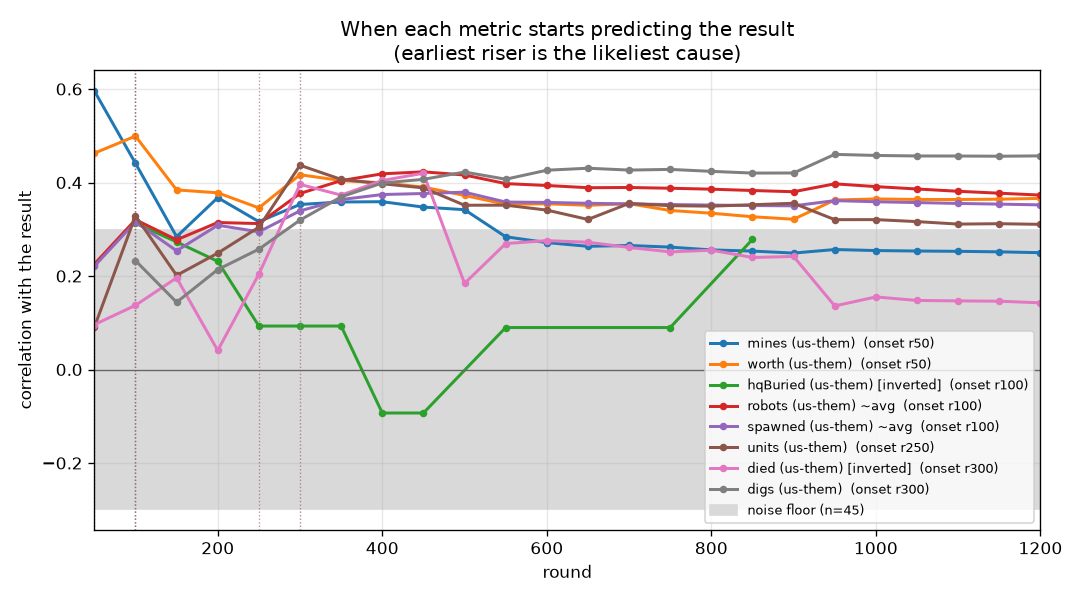
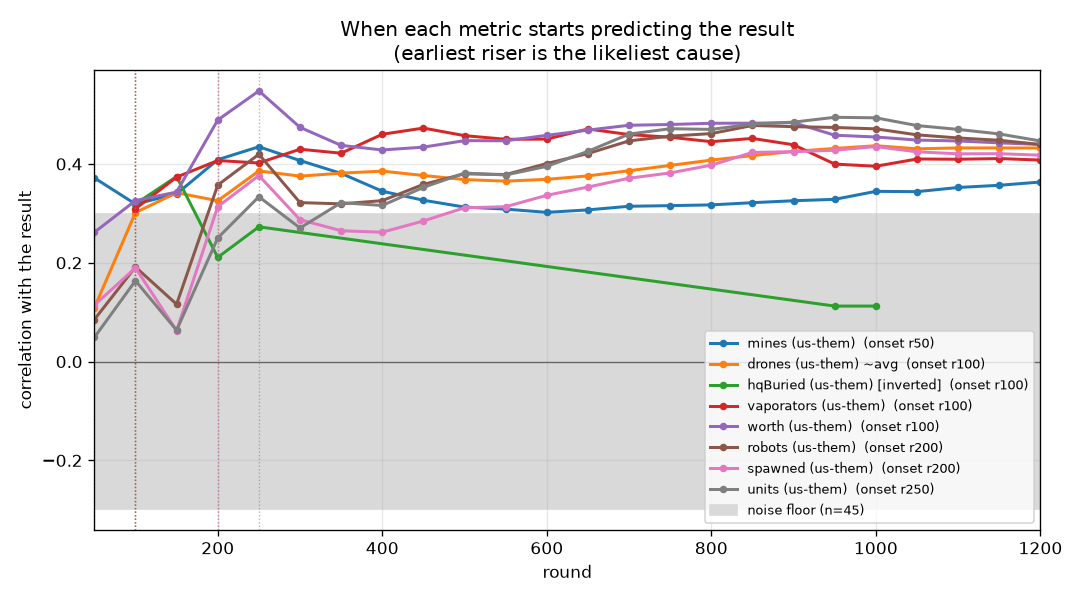
r1s16 at 240: 1734 +- 49 (worse; ledger); src/r1 reverted to g_iter13; rzhan11's fall explained
Claude-Session: https://claude.ai/code/session_015tNyF5ucwWW1mudpEQTT25

diff --git a/src/r1/Drone.java b/src/r1/Drone.java
@@ -54,7 +54,7 @@ public strictfp class Drone extends Robot {
     private MapLocation slot; private boolean posted = false;
     private boolean shield() throws GameActionException {
         MapLocation h = MapState.home;
-        if ((Nav.cheb(loc, h) == 2 && rc.senseFlooding(loc)) || Nav.cheb(loc, h) == 1) {   // stage 7: flooded tiles only; R1 stage 16: or an empty ring tile (nothing can be dropped onto it)
+        if (Nav.cheb(loc, h) == 2 && rc.senseFlooding(loc)) {   // stage 7: flooded tiles only (a dry one is a helper's post or its climb out of the flood)
             if (!posted) { posted = true; slot = loc; Debug.log("@shield at=" + loc); }
             if (!rc.isCurrentlyHoldingUnit() && rc.isReady()) for (int i = nEnemy; --i >= 0;) { RobotInfo e = enemies[i]; if (e.type.canBePickedUp() && rc.canPickUpUnit(e.ID)) { rc.pickUpUnit(e.ID); pickups++; Debug.log("@shieldpick t=" + e.type.ordinal()); return true; } }
             return true;
@@ -62,11 +62,6 @@ public strictfp class Drone extends Robot {
         if (rc.isCurrentlyHoldingUnit()) return false;   // drown the cargo first
         if (slot == null || (rc.canSenseLocation(slot) && rc.isLocationOccupied(slot)) || round % 10 == id % 10) {
             slot = null; int bd = 1 << 30;
-            // R1 stage 16 (g_iter13 vs mvpatel2000: 9 losses at r1893-1983 -- the ring's seats lifted by ~r1750, then four of its
-            // landscapers dropped onto the empty ring bury the HQ): an empty ring tile first -- a drone on it blocks the drop
-            for (int i = 8; --i >= 0;) { MapLocation t = h.add(DIRS[i]); if (!rc.onTheMap(t) || !rc.canSenseLocation(t) || rc.isLocationOccupied(t)) continue;
-                int d = loc.distanceSquaredTo(t) - 1000; if (d < bd) { bd = d; slot = t; } }
-            if (slot == null)
             for (int dx = -2; dx <= 2; dx++) for (int dy = -2; dy <= 2; dy++) { if (Math.max(Math.abs(dx), Math.abs(dy)) != 2) continue;
                 MapLocation t = new MapLocation(h.x + dx, h.y + dy); if (!rc.onTheMap(t) || !rc.canSenseLocation(t) || !rc.senseFlooding(t)) continue;
                 if (rc.isLocationOccupied(t)) continue;

diff --git a/progress/ONSET-merged.md b/progress/ONSET-merged.md
@@ -1,6 +1,6 @@
-# Which metric starts predicting the result first -- every recorded block of r1s15 merged
+# Which metric starts predicting the result first -- every recorded block of r1s16 merged
 
-228 games, 131 wins. Noise floor about 0.13; a correlation inside that band is not evidence.
+230 games, 78 wins. Noise floor about 0.13; a correlation inside that band is not evidence.
 
 Every metric is oriented so **higher is better for us**, so a positive correlation always means
 "this being better goes with winning". `~avg` is the running mean over all rounds so far rather than
@@ -12,46 +12,46 @@ See `progress/METRICS.md` for how each quantity is computed.
 
 | onset | anti | metric | peak corr | r100 | r200 | r300 | r400 | r600 | r900 |
 |---|---|---|---|---|---|---|---|---|---|
-| r200 | - | worth (us-them) | +0.56 | +0.23 | +0.36 | +0.48 | +0.53 | +0.55 | +0.50 |
-| r200 | - | worth (us-them) ~avg | +0.56 | +0.23 | +0.31 | +0.41 | +0.48 | +0.56 | +0.54 |
-| r250 | - | mines (us-them) | +0.47 | +0.23 | +0.29 | +0.40 | +0.47 | +0.47 | +0.44 |
-| r250 | - | robots (us-them) | +0.55 | +0.15 | +0.26 | +0.34 | +0.40 | +0.53 | +0.55 |
-| r300 | - | mines (us-them) ~avg | +0.48 | +0.24 | +0.25 | +0.34 | +0.44 | +0.48 | +0.47 |
-| r300 | - | spawned (us-them) | +0.54 | +0.16 | +0.26 | +0.33 | +0.39 | +0.52 | +0.54 |
-| r300 | - | vaporators (us-them) | +0.42 | +0.10 | +0.24 | +0.33 | +0.36 | +0.42 | +0.36 |
-| r350 | - | robots (us-them) ~avg | +0.54 | +0.17 | +0.22 | +0.28 | +0.35 | +0.50 | +0.54 |
-| r350 | - | spawned (us-them) ~avg | +0.52 | +0.18 | +0.22 | +0.26 | +0.33 | +0.47 | +0.52 |
-| r350 | - | vaporators (us-them) ~avg | +0.41 | +0.10 | +0.18 | +0.27 | +0.32 | +0.40 | +0.40 |
-| r450 | - | landscapers (us-them) | +0.54 | +0.04 | +0.09 | +0.12 | +0.22 | +0.50 | +0.54 |
-| r450 | - | units (us-them) | +0.52 | +0.16 | +0.15 | +0.19 | +0.29 | +0.48 | +0.52 |
-| r500 | - | units (us-them) ~avg | +0.50 | +0.18 | +0.16 | +0.16 | +0.22 | +0.41 | +0.50 |
-| r550 | - | digs (us-them) | +0.59 | +0.11 | +0.07 | +0.11 | +0.18 | +0.36 | +0.51 |
-| r550 | - | dirtDeps (us-them) | +0.59 | +0.09 | +0.03 | +0.07 | +0.15 | +0.35 | +0.50 |
-| r550 | - | landscapers (us-them) ~avg | +0.55 | +0.05 | +0.03 | +0.05 | +0.12 | +0.39 | +0.50 |
-| r700 | - | digs (us-them) ~avg | +0.51 | +0.11 | +0.05 | +0.09 | +0.14 | +0.26 | +0.42 |
-| r700 | - | dirtDeps (us-them) ~avg | +0.52 | +0.09 | +0.01 | +0.04 | +0.11 | +0.24 | +0.41 |
-| r750 | - | moves (us-them) | +0.38 | +0.06 | +0.10 | +0.12 | +0.11 | +0.26 | +0.36 |
-| r750 | - | netguns (us-them) | +0.30 | -0.06 | +0.01 | +0.06 | +0.04 | +0.29 | +0.30 |
-| r800 | - | drones (us-them) | +0.30 | +0.11 | +0.04 | +0.06 | +0.15 | +0.25 | +0.30 |
-| r800 | - | pickups (us-them) | +0.33 | +0.05 | -0.02 | +0.05 | +0.14 | +0.23 | +0.31 |
-| r950 | - | pickups (us-them) ~avg | +0.33 | +0.07 | +0.01 | +0.03 | +0.09 | +0.18 | +0.27 |
-| r1150 | - | moves (us-them) ~avg | +0.32 | +0.04 | +0.11 | +0.12 | +0.10 | +0.18 | +0.28 |
-| - | - | aba (us-them) [inverted] | -0.24 | +0.13 | +0.15 | +0.18 | +0.13 | -0.10 | -0.24 |
-| - | - | aba (us-them) [inverted] ~avg | +0.20 | +0.14 | +0.17 | +0.20 | +0.19 | +0.04 | -0.12 |
-| - | - | cov (us-them) | +0.23 | -0.04 | +0.14 | +0.14 | +0.17 | +0.22 | +0.21 |
-| - | - | cov (us-them) ~avg | +0.21 | -0.07 | +0.05 | +0.10 | +0.14 | +0.20 | +0.21 |
-| - | - | died (us-them) [inverted] | +0.20 | -0.11 | +0.06 | +0.09 | +0.13 | +0.19 | +0.13 |
-| - | - | died (us-them) [inverted] ~avg | +0.17 | -0.10 | +0.05 | +0.08 | +0.10 | +0.16 | +0.17 |
-| - | - | drones (us-them) ~avg | +0.27 | +0.10 | +0.06 | +0.06 | +0.09 | +0.17 | +0.27 |
+| r50 | - | mines (us-them) | +0.39 | +0.35 | +0.37 | +0.35 | +0.36 | +0.32 | +0.30 |
+| r50 | - | mines (us-them) ~avg | +0.39 | +0.37 | +0.37 | +0.35 | +0.37 | +0.35 | +0.35 |
+| r100 | - | worth (us-them) | +0.43 | +0.34 | +0.39 | +0.41 | +0.41 | +0.42 | +0.39 |
+| r100 | - | worth (us-them) ~avg | +0.43 | +0.35 | +0.38 | +0.39 | +0.42 | +0.43 | +0.42 |
+| r200 | - | robots (us-them) | +0.42 | +0.27 | +0.31 | +0.34 | +0.37 | +0.41 | +0.41 |
+| r200 | - | robots (us-them) ~avg | +0.43 | +0.27 | +0.31 | +0.33 | +0.36 | +0.40 | +0.42 |
+| r200 | - | spawned (us-them) ~avg | +0.39 | +0.27 | +0.30 | +0.29 | +0.31 | +0.34 | +0.39 |
+| r300 | - | vaporators (us-them) | +0.40 | +0.23 | +0.24 | +0.31 | +0.32 | +0.40 | +0.33 |
+| r350 | - | vaporators (us-them) ~avg | +0.38 | +0.23 | +0.23 | +0.27 | +0.32 | +0.38 | +0.36 |
+| r400 | - | landscapers (us-them) | +0.43 | +0.01 | +0.13 | +0.20 | +0.31 | +0.38 | +0.43 |
+| r400 | - | spawned (us-them) | +0.40 | +0.27 | +0.29 | +0.28 | +0.31 | +0.37 | +0.39 |
+| r400 | - | units (us-them) | +0.42 | +0.22 | +0.24 | +0.26 | +0.32 | +0.37 | +0.41 |
+| r400 | - | units (us-them) ~avg | +0.41 | +0.22 | +0.24 | +0.26 | +0.30 | +0.35 | +0.41 |
+| r450 | - | pickups (us-them) | +0.34 | +0.07 | +0.13 | +0.25 | +0.29 | +0.33 | +0.24 |
+| r500 | - | pickups (us-them) ~avg | +0.34 | +0.07 | +0.14 | +0.23 | +0.28 | +0.33 | +0.31 |
+| r550 | - | landscapers (us-them) ~avg | +0.42 | +0.03 | +0.05 | +0.12 | +0.22 | +0.32 | +0.42 |
+| r600 | - | digs (us-them) | +0.37 | +0.14 | +0.08 | +0.20 | +0.26 | +0.30 | +0.34 |
+| r700 | - | moves (us-them) | +0.37 | -0.06 | +0.15 | +0.16 | +0.18 | +0.27 | +0.36 |
+| r750 | - | drones (us-them) | +0.35 | +0.25 | +0.28 | +0.25 | +0.28 | +0.28 | +0.34 |
+| r750 | - | drones (us-them) ~avg | +0.35 | +0.26 | +0.29 | +0.29 | +0.29 | +0.28 | +0.33 |
+| r800 | - | digs (us-them) ~avg | +0.36 | +0.14 | +0.07 | +0.16 | +0.22 | +0.27 | +0.32 |
+| r850 | - | moves (us-them) ~avg | +0.35 | -0.14 | +0.12 | +0.17 | +0.17 | +0.23 | +0.32 |
+| r950 | - | died (us-them) [inverted] ~avg | +0.32 | +0.01 | +0.10 | +0.17 | +0.22 | +0.28 | +0.30 |
+| r950 | - | dirtDeps (us-them) | +0.32 | +0.10 | +0.03 | +0.16 | +0.22 | +0.26 | +0.30 |
+| r950 | - | miners (us-them) | +0.32 | +0.16 | +0.10 | +0.09 | +0.05 | +0.18 | +0.29 |
+| r1100 | - | dirtDeps (us-them) ~avg | +0.31 | +0.11 | +0.01 | +0.11 | +0.18 | +0.23 | +0.28 |
+| - | r750 | aba (us-them) [inverted] | -0.40 | -0.06 | -0.03 | -0.00 | -0.10 | -0.24 | -0.35 |
+| - | r950 | aba (us-them) [inverted] ~avg | -0.38 | -0.06 | -0.05 | -0.02 | -0.05 | -0.17 | -0.30 |
+| - | - | cov (us-them) | +0.24 | -0.10 | +0.09 | +0.18 | +0.18 | +0.22 | +0.24 |
+| - | - | cov (us-them) ~avg | +0.22 | -0.15 | -0.01 | +0.08 | +0.11 | +0.18 | +0.22 |
+| - | - | died (us-them) [inverted] | +0.30 | +0.03 | +0.10 | +0.20 | +0.26 | +0.29 | +0.26 |
 | - | - | drowned (us-them) [inverted] | . | . | . | . | . | . | . |
 | - | - | drowned (us-them) [inverted] ~avg | . | . | . | . | . | . | . |
-| - | - | hqBuried (us-them) [inverted] | +0.27 | +0.23 | +0.27 | +0.22 | +0.11 | +0.11 | +0.09 |
-| - | - | hqBuried (us-them) [inverted] ~avg | +0.23 | +0.23 | +0.19 | +0.15 | +0.13 | +0.11 | +0.10 |
-| - | - | miners (us-them) | +0.30 | +0.11 | +0.14 | +0.14 | +0.20 | +0.26 | +0.30 |
-| - | - | miners (us-them) ~avg | +0.27 | +0.15 | +0.18 | +0.18 | +0.21 | +0.25 | +0.27 |
-| - | - | netguns (us-them) ~avg | +0.26 | -0.06 | +0.00 | +0.03 | +0.03 | +0.13 | +0.24 |
-| - | - | soup (us-them) | -0.11 | +0.02 | -0.06 | -0.03 | +0.02 | -0.09 | -0.11 |
-| - | - | soup (us-them) ~avg | +0.08 | +0.04 | -0.01 | -0.01 | +0.01 | -0.06 | -0.06 |
+| - | - | hqBuried (us-them) [inverted] | +0.30 | +0.24 | +0.16 | +0.11 | -0.03 | +0.05 | -0.06 |
+| - | - | hqBuried (us-them) [inverted] ~avg | +0.27 | +0.23 | +0.10 | -0.04 | -0.09 | -0.08 | -0.09 |
+| - | - | miners (us-them) ~avg | +0.29 | +0.15 | +0.18 | +0.16 | +0.12 | +0.15 | +0.23 |
+| - | - | netguns (us-them) | +0.20 | . | +0.06 | +0.06 | +0.12 | +0.19 | +0.17 |
+| - | - | netguns (us-them) ~avg | +0.21 | . | +0.06 | +0.06 | +0.11 | +0.20 | +0.19 |
+| - | - | soup (us-them) | -0.16 | -0.10 | -0.05 | +0.06 | +0.08 | -0.08 | -0.08 |
+| - | - | soup (us-them) ~avg | -0.11 | -0.05 | -0.09 | -0.06 | +0.00 | -0.02 | -0.04 |
 
 **Reading it.** Earliest onset is the first place to look: temporal precedence is the one causal hint a
 correlation can honestly give. Late-onset metrics are usually the scoreboard rather than the cause -- by then

diff --git a/progress/ONSET.md b/progress/ONSET.md
@@ -1,6 +1,6 @@
 # Which metric starts predicting the result first
 
-45 games, 14 wins. Noise floor about 0.30; a correlation inside that band is not evidence.
+45 games, 16 wins. Noise floor about 0.30; a correlation inside that band is not evidence.
 
 Every metric is oriented so **higher is better for us**, so a positive correlation always means
 "this being better goes with winning". `~avg` is the running mean over all rounds so far rather than
@@ -12,46 +12,46 @@ See `progress/METRICS.md` for how each quantity is computed.
 
 | onset | anti | metric | peak corr | r100 | r200 | r300 | r400 | r600 | r900 |
 |---|---|---|---|---|---|---|---|---|---|
-| r50 | - | mines (us-them) | +0.60 | +0.44 | +0.37 | +0.35 | +0.36 | +0.27 | +0.25 |
-| r50 | - | mines (us-them) ~avg | +0.59 | +0.50 | +0.44 | +0.37 | +0.38 | +0.33 | +0.30 |
-| r50 | - | worth (us-them) | +0.50 | +0.50 | +0.38 | +0.42 | +0.40 | +0.35 | +0.32 |
-| r50 | - | worth (us-them) ~avg | +0.51 | +0.51 | +0.44 | +0.41 | +0.42 | +0.39 | +0.36 |
-| r100 | - | hqBuried (us-them) [inverted] | +0.31 | +0.31 | +0.23 | +0.09 | -0.09 | . | . |
-| r100 | - | hqBuried (us-them) [inverted] ~avg | +0.31 | +0.31 | +0.19 | +0.04 | +0.01 | -0.05 | -0.04 |
-| r100 | - | robots (us-them) ~avg | +0.42 | +0.32 | +0.31 | +0.38 | +0.42 | +0.39 | +0.38 |
-| r100 | - | spawned (us-them) ~avg | +0.38 | +0.32 | +0.31 | +0.34 | +0.37 | +0.36 | +0.35 |
-| r250 | - | robots (us-them) | +0.44 | +0.32 | +0.28 | +0.44 | +0.42 | +0.35 | +0.35 |
-| r250 | - | spawned (us-them) | +0.39 | +0.31 | +0.27 | +0.38 | +0.38 | +0.33 | +0.34 |
-| r250 | - | units (us-them) | +0.44 | +0.33 | +0.25 | +0.44 | +0.40 | +0.34 | +0.36 |
-| r300 | - | died (us-them) [inverted] | +0.42 | +0.14 | +0.04 | +0.40 | +0.40 | +0.28 | +0.24 |
-| r300 | - | digs (us-them) | +0.46 | +0.23 | +0.21 | +0.32 | +0.40 | +0.43 | +0.42 |
-| r300 | - | landscapers (us-them) | +0.45 | +0.09 | +0.18 | +0.38 | +0.41 | +0.41 | +0.44 |
-| r300 | - | miners (us-them) | +0.34 | +0.21 | +0.15 | +0.34 | +0.32 | +0.28 | +0.28 |
-| r300 | - | units (us-them) ~avg | +0.40 | +0.28 | +0.29 | +0.34 | +0.39 | +0.38 | +0.38 |
-| r350 | - | died (us-them) [inverted] ~avg | +0.43 | +0.13 | +0.08 | +0.28 | +0.39 | +0.40 | +0.36 |
-| r350 | - | digs (us-them) ~avg | +0.49 | +0.23 | +0.21 | +0.28 | +0.36 | +0.40 | +0.43 |
-| r350 | - | dirtDeps (us-them) | +0.43 | +0.25 | +0.16 | +0.27 | +0.36 | +0.39 | +0.38 |
-| r350 | - | landscapers (us-them) ~avg | +0.47 | +0.09 | +0.11 | +0.23 | +0.36 | +0.43 | +0.47 |
-| r350 | - | moves (us-them) | +0.39 | -0.01 | +0.25 | +0.28 | +0.36 | +0.39 | +0.37 |
-| r350 | - | moves (us-them) ~avg | +0.39 | -0.09 | +0.25 | +0.29 | +0.33 | +0.39 | +0.39 |
-| r350 | - | pickups (us-them) | +0.38 | +0.11 | +0.05 | +0.25 | +0.37 | +0.32 | +0.20 |
-| r350 | - | pickups (us-them) ~avg | +0.40 | +0.11 | +0.14 | +0.25 | +0.36 | +0.40 | +0.27 |
-| r400 | - | dirtDeps (us-them) ~avg | +0.46 | +0.24 | +0.17 | +0.23 | +0.31 | +0.36 | +0.40 |
-| r500 | - | vaporators (us-them) | +0.36 | +0.25 | +0.19 | +0.27 | +0.29 | +0.32 | +0.29 |
-| r550 | - | vaporators (us-them) ~avg | +0.38 | +0.25 | +0.19 | +0.25 | +0.28 | +0.31 | +0.30 |
-| r700 | - | miners (us-them) ~avg | +0.31 | +0.18 | +0.24 | +0.24 | +0.27 | +0.30 | +0.30 |
-| - | r600 | aba (us-them) [inverted] | -0.48 | -0.18 | -0.11 | -0.03 | -0.14 | -0.33 | -0.48 |
-| - | r800 | aba (us-them) [inverted] ~avg | -0.42 | -0.20 | -0.13 | -0.09 | -0.10 | -0.21 | -0.36 |
-| - | - | cov (us-them) | +0.27 | -0.08 | +0.24 | +0.23 | +0.20 | +0.13 | +0.09 |
-| - | - | cov (us-them) ~avg | +0.21 | -0.09 | +0.05 | +0.20 | +0.21 | +0.17 | +0.13 |
-| - | - | drones (us-them) | +0.31 | +0.31 | +0.12 | +0.19 | +0.18 | +0.15 | +0.25 |
-| - | - | drones (us-them) ~avg | +0.31 | +0.31 | +0.23 | +0.22 | +0.21 | +0.18 | +0.22 |
+| r50 | - | mines (us-them) | +0.43 | +0.32 | +0.41 | +0.41 | +0.34 | +0.30 | +0.33 |
+| r50 | - | mines (us-them) ~avg | +0.39 | +0.35 | +0.33 | +0.38 | +0.38 | +0.34 | +0.34 |
+| r100 | - | drones (us-them) ~avg | +0.44 | +0.30 | +0.33 | +0.38 | +0.39 | +0.37 | +0.43 |
+| r100 | - | hqBuried (us-them) [inverted] | +0.37 | +0.32 | +0.21 | . | . | . | . |
+| r100 | - | hqBuried (us-them) [inverted] ~avg | +0.37 | +0.32 | +0.22 | +0.06 | +0.06 | +0.06 | +0.06 |
+| r100 | - | vaporators (us-them) | +0.47 | +0.31 | +0.41 | +0.43 | +0.46 | +0.45 | +0.44 |
+| r100 | - | vaporators (us-them) ~avg | +0.47 | +0.31 | +0.41 | +0.43 | +0.45 | +0.46 | +0.46 |
+| r100 | - | worth (us-them) | +0.55 | +0.33 | +0.49 | +0.47 | +0.43 | +0.46 | +0.48 |
+| r100 | - | worth (us-them) ~avg | +0.48 | +0.32 | +0.37 | +0.46 | +0.46 | +0.46 | +0.48 |
+| r200 | - | drones (us-them) | +0.46 | +0.29 | +0.30 | +0.31 | +0.35 | +0.38 | +0.46 |
+| r200 | - | robots (us-them) | +0.48 | +0.19 | +0.36 | +0.32 | +0.33 | +0.40 | +0.48 |
+| r200 | - | spawned (us-them) | +0.44 | +0.19 | +0.31 | +0.29 | +0.26 | +0.34 | +0.42 |
+| r250 | - | robots (us-them) ~avg | +0.44 | +0.18 | +0.22 | +0.31 | +0.33 | +0.37 | +0.44 |
+| r250 | - | units (us-them) | +0.49 | +0.16 | +0.25 | +0.27 | +0.32 | +0.40 | +0.48 |
+| r400 | - | died (us-them) [inverted] | +0.47 | +0.04 | +0.20 | +0.17 | +0.31 | +0.38 | +0.47 |
+| r450 | - | landscapers (us-them) | +0.58 | -0.03 | +0.10 | +0.23 | +0.29 | +0.46 | +0.50 |
+| r450 | - | pickups (us-them) | +0.48 | +0.10 | +0.22 | +0.16 | +0.30 | +0.48 | +0.34 |
+| r450 | - | units (us-them) ~avg | +0.46 | +0.14 | +0.14 | +0.23 | +0.29 | +0.36 | +0.45 |
+| r500 | - | died (us-them) [inverted] ~avg | +0.45 | -0.02 | +0.15 | +0.21 | +0.26 | +0.35 | +0.45 |
+| r500 | - | digs (us-them) | +0.56 | +0.22 | +0.02 | +0.18 | +0.27 | +0.39 | +0.47 |
+| r500 | - | pickups (us-them) ~avg | +0.45 | +0.10 | +0.18 | +0.18 | +0.24 | +0.41 | +0.41 |
+| r600 | - | dirtDeps (us-them) | +0.51 | +0.28 | +0.04 | +0.15 | +0.21 | +0.32 | +0.43 |
+| r600 | - | landscapers (us-them) ~avg | +0.55 | -0.03 | -0.03 | +0.05 | +0.17 | +0.33 | +0.46 |
+| r600 | - | spawned (us-them) ~avg | +0.40 | +0.19 | +0.19 | +0.26 | +0.28 | +0.31 | +0.38 |
+| r650 | - | digs (us-them) ~avg | +0.50 | +0.22 | +0.00 | +0.10 | +0.19 | +0.29 | +0.41 |
+| r700 | - | moves (us-them) | +0.43 | -0.17 | -0.10 | +0.04 | +0.11 | +0.24 | +0.41 |
+| r750 | - | dirtDeps (us-them) ~avg | +0.44 | +0.28 | +0.05 | +0.09 | +0.15 | +0.23 | +0.36 |
+| r850 | - | moves (us-them) ~avg | +0.39 | -0.25 | -0.10 | +0.01 | +0.06 | +0.17 | +0.33 |
+| r900 | - | miners (us-them) | +0.37 | +0.11 | +0.11 | -0.01 | -0.01 | +0.03 | +0.30 |
+| - | r450 | aba (us-them) [inverted] | -0.58 | -0.16 | +0.06 | -0.17 | -0.28 | -0.32 | -0.49 |
+| - | r650 | aba (us-them) [inverted] ~avg | -0.51 | -0.16 | -0.01 | -0.11 | -0.21 | -0.29 | -0.40 |
+| - | - | cov (us-them) | +0.29 | -0.23 | -0.18 | -0.01 | +0.08 | +0.16 | +0.26 |
+| - | - | cov (us-them) ~avg | -0.26 | -0.26 | -0.21 | -0.14 | -0.06 | +0.05 | +0.15 |
 | - | - | drowned (us-them) [inverted] | . | . | . | . | . | . | . |
 | - | - | drowned (us-them) [inverted] ~avg | . | . | . | . | . | . | . |
-| - | - | netguns (us-them) | +0.24 | . | +0.09 | +0.09 | +0.17 | +0.23 | +0.21 |
-| - | - | netguns (us-them) ~avg | +0.27 | . | +0.09 | +0.09 | +0.17 | +0.25 | +0.25 |
-| - | - | soup (us-them) | +0.24 | -0.04 | +0.08 | -0.06 | -0.03 | +0.08 | -0.14 |
-| - | - | soup (us-them) ~avg | -0.10 | -0.00 | +0.10 | -0.06 | -0.10 | +0.03 | -0.02 |
+| - | - | miners (us-them) ~avg | +0.28 | +0.10 | +0.09 | +0.09 | +0.06 | +0.06 | +0.18 |
+| - | - | netguns (us-them) | +0.27 | . | . | . | . | +0.27 | +0.21 |
+| - | - | netguns (us-them) ~avg | +0.27 | . | . | . | . | +0.26 | +0.24 |
+| - | - | soup (us-them) | +0.29 | -0.05 | -0.15 | +0.29 | +0.15 | -0.01 | +0.07 |
+| - | - | soup (us-them) ~avg | +0.15 | +0.02 | -0.15 | -0.04 | +0.10 | +0.09 | +0.06 |
 
 **Reading it.** Earliest onset is the first place to look: temporal precedence is the one causal hint a
 correlation can honestly give. Late-onset metrics are usually the scoreboard rather than the cause -- by then

diff --git a/TRAINING_LOG.md b/TRAINING_LOG.md
@@ -2884,6 +2884,11 @@ tightening toward the bots that beat us most; single blocks swing from 4 to 14 o
 
 ## Ledger (closed directions)
 
+- **Drones on empty ring tiles (R1 stage 16, 2026-09-27)** -- the shield takes an empty ring tile before a flooded
+  Chebyshev-2 tile, against mvpatel2000's drop onto a lifted ring. r1s16 at 240 band games: 79-161, 1734 +- 49 against
+  g_iter13's 1823 +- 46 -- worse against nearly every opponent (mvpatel2000 20% / 33%, winkelmantanner 33% / 47%). Likely
+  cause: seats move between ring tiles (the seat walk) and a drone takes the momentarily empty one. Kind: refuted.
+
 - **The keep, the shield and the late raid (Iterations 86-87, 2026-09-26)** -- masons named by the school raise a 3x3
   platform with a door; any miner keeps it; its center feeds the flooded-tile shield (the jointly necessary pair, §84)
   and, from r1400, a raid on the enemy wall with the idle soup. Mechanisms all fire (keepers on 7 of 10 maps; shields in
@@ -4123,3 +4128,11 @@ freed tiles), g_iter13 as control.
 (its raid did not fire, 0 lifts) the rule fired on RandomSoup1 -- drones on ring tiles (18,7) and (17,7) beside the HQ
 at r693-701, where g_iter13's posted further out at r946 -- with the outcomes unchanged. **Arm R1g: 240 band games as
 `us:r1s16`**, registered: rating against g_iter13 (1829 +- 46); its record against mvpatel2000 against g_iter13's 10-20.
+
+**Arm R1g: r1s16 at 240 band games: 79-161, 1734 +- 49 -- 89 below g_iter13 (1823 +- 46). Not kept** (ledger). Its pool
+ran stronger (it started at the incumbent's rating: IvanGeffner 3-27, battlecode20-team4 1-29), but the fit corrects for
+that and it is worse against nearly every shared opponent. `src/r1` reverted to g_iter13.
+
+**rzhan11 (PROMPTS 52):** its rating fell from ~2035 (86 games, 2026-09-25) to 1851 +- 39 (362 games) as our builds'
+record against it rose from 5-16% (g_iter3-g_iter5) to 40-46% (cand81s8 onward; g_iter13 14-16, with 8 losses before
+r400 against the early R1 stages' 13-14). What remains against it is the bank-then-burst rush.
